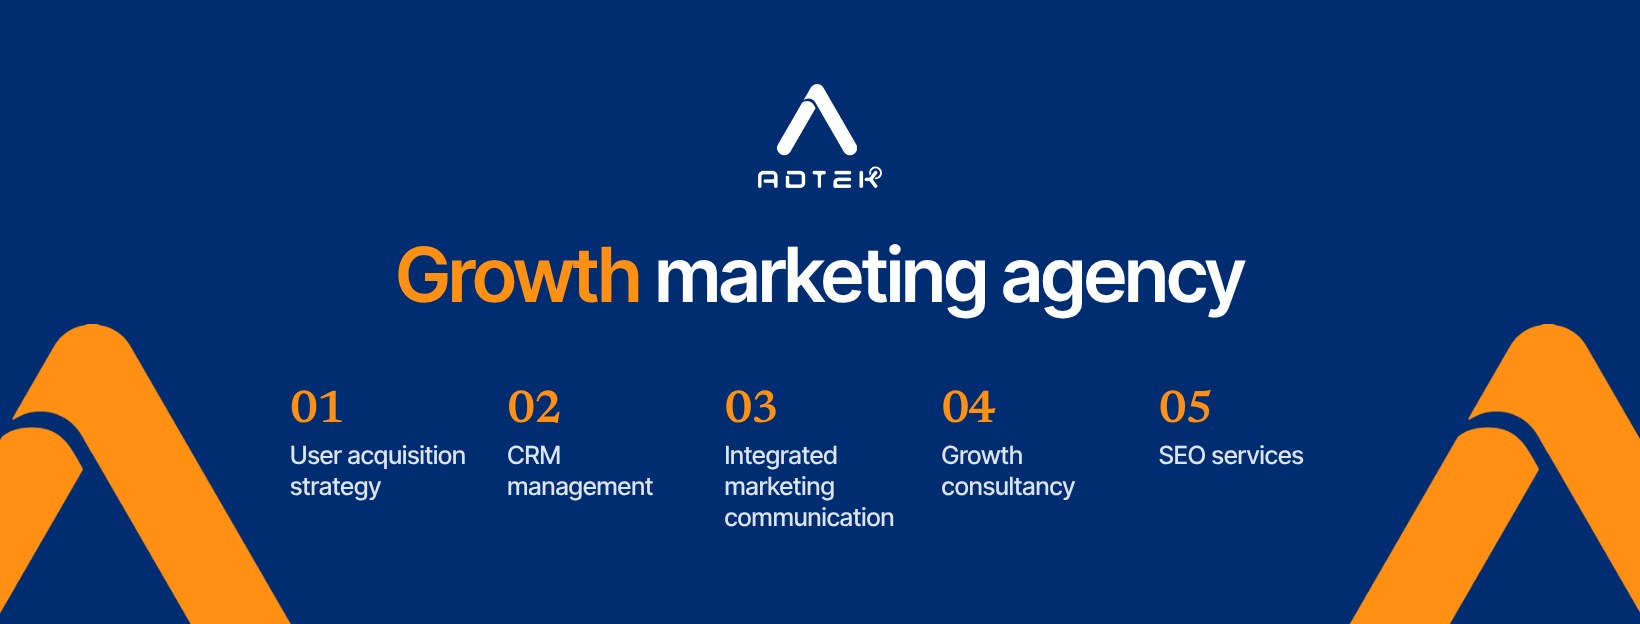
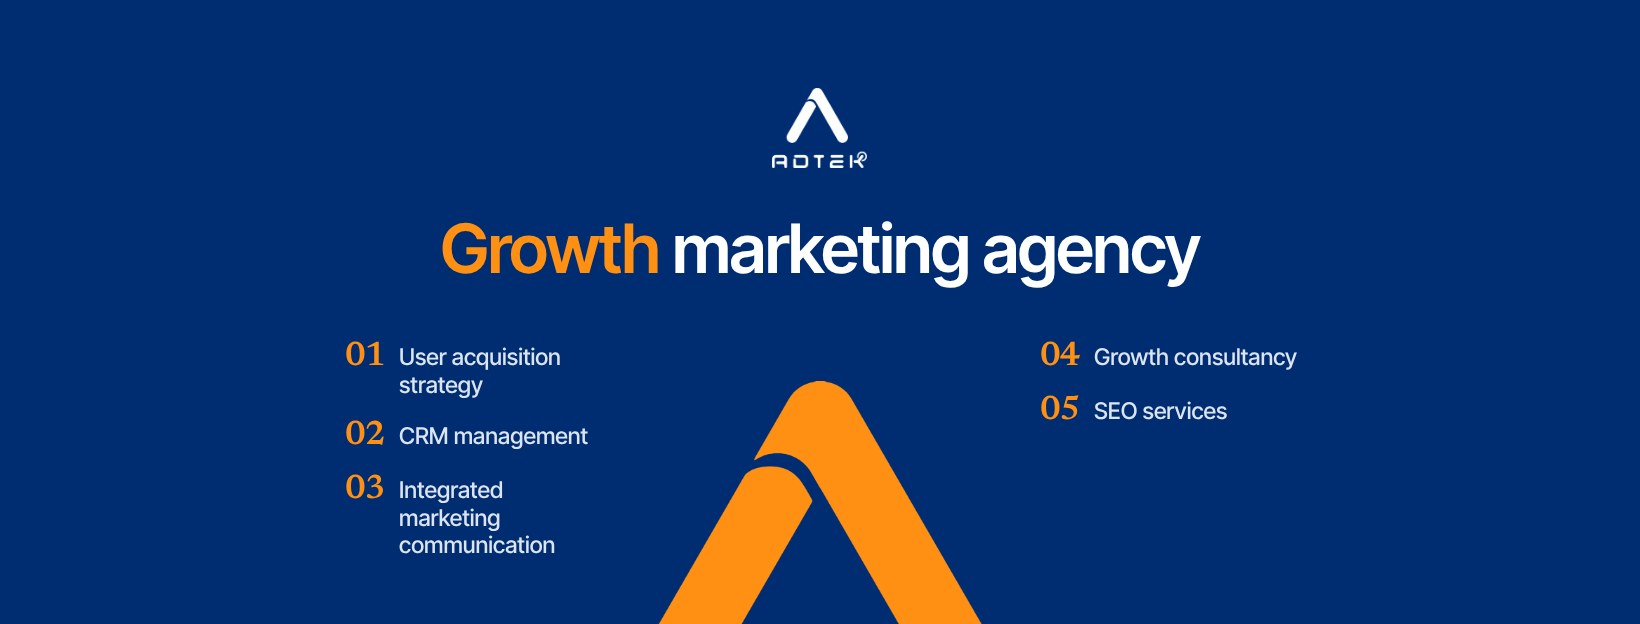
Facebook page cover: layout for the mobile app (two service columns around the profile picture), mobile mock preview
Claude-Session: https://claude.ai/code/session_01Wp8F7EosGPrY7v6XwBpRSM

diff --git a/tools/covers.py b/tools/covers.py
@@ -14,7 +14,7 @@ Cách dùng:
   python3 tools/covers.py render <số bài> [--style X] [--kind blog|fb|all] [--out thư-mục]   dựng thử, không ghi cover.style
   python3 tools/covers.py sheet <số bài> [--out thư-mục]   dựng mọi phong cách cho một bài để so sánh
   python3 tools/covers.py existing <wp_id>           dựng ảnh bìa blog cho bài cũ trong mục existing (vd 6076, 6078)
-  python3 tools/covers.py fbcover [center|split|cream] [--out thư-mục]   ảnh bìa Fanpage Facebook 1640x624 (content/brand/fb-cover.jpg)
+  python3 tools/covers.py fbcover [columns|minimal|center|split|cream] [--out thư-mục]   ảnh bìa Fanpage Facebook 1640x624 (content/brand/fb-cover.jpg)
   python3 tools/covers.py og [navy|cream|panel] [--out thư-mục]   ảnh chia sẻ mặc định của website (content/brand/og-default.jpg và @2x)
 """
 import base64
@@ -551,19 +551,42 @@ def og_render(variant="navy", out=None):
 # ---------------------------------------------------------------- ảnh bìa Fanpage Facebook
 
 FB_COVER_SIZE = (1640, 624)  # khổ tải lên Facebook khuyến nghị (hiển thị 820x312 trên máy tính)
-# Điện thoại hiển thị 640x360: cắt hai bên, chỉ giữ khoảng 68% chiều ngang ở giữa (x 265 đến 1375);
-# máy tính: ảnh đại diện Page đè góc dưới bên trái. Chữ và logo nằm trong x 300 đến 1340, chỉ dấu A cam (không chữ) tràn ra ngoài.
+# Ứng dụng Facebook trên điện thoại (đo từ ảnh chụp anh Tin gửi 16/10/2026): chỉ thấy x 315 đến 1325; thanh trạng thái che y < 80;
+# nút menu, sửa, tìm kiếm ở hai góc trên (y 155 đến 210); ảnh đại diện Page là hình tròn tâm (818, 573) bán kính khoảng 200
+# che giữa phía dưới (chủ Page còn thấy bong bóng "Share a note" ở x 670 đến 965, y 305 đến 400); khung trắng che y > 595.
+# Máy tính: ảnh đại diện đè góc dưới bên trái. Mẫu "columns": logo, tiêu đề giữa phía trên; dịch vụ hai cột hai bên hình tròn.
 SERVICES = ["User acquisition strategy", "CRM management", "Integrated marketing communication", "Growth consultancy", "SEO services"]
-FB_COVER_VARIANTS = ("center", "split", "cream")  # center: anh Tin chọn 16/10/2026
+FB_COVER_VARIANTS = ("columns", "minimal", "center", "split", "cream")  # anh Tin chọn bố cục giữa, chỉnh lại thành columns cho điện thoại
+FB_MOBILE = {"view": (315, 1325), "top": 80, "icons": [(330, 155, 400, 210), (1020, 155, 1290, 210)],
+             "circle": (818, 573, 200), "note": (670, 305, 965, 400), "bottom": 595}
 
 
-def fb_cover(variant="center"):
-    """split: nền navy, tiêu đề bên trái, 5 dịch vụ đánh số bên phải, dấu A cam tràn mép phải.
+def fb_cover(variant="columns"):
+    """columns: nền navy, logo và tiêu đề giữa phía trên, dịch vụ 01 đến 03 cột trái, 04 đến 05 cột phải, dấu A cam giữa phía dưới
+    (trên điện thoại nằm sau ảnh đại diện Page). minimal: như columns nhưng bỏ danh sách dịch vụ, tiêu đề lớn hơn.
+    split: nền navy, tiêu đề bên trái, 5 dịch vụ đánh số bên phải, dấu A cam tràn mép phải.
     center: nền navy, bố cục giữa như ảnh bìa cũ, 5 dịch vụ thành hàng (số trên, chữ dưới), dấu A cam ở hai góc dưới.
     cream: nền kem, tiêu đề navy bên trái, dịch vụ trên khối navy tràn mép phải, dấu A cam ở mép phải."""
     items = "".join(f'<li><span class="num">{i:02d}</span><span class="t">{esc(t)}</span></li>' for i, t in enumerate(SERVICES, 1))
     head = hl("*Growth* marketing agency")
-    if variant == "center":
+    if variant in ("columns", "minimal"):
+        li = lambda i, t: f'<li><span class="num">{i:02d}</span><span class="t">{esc(t)}</span></li>'  # noqa: E731
+        left = "".join(li(i, t) for i, t in enumerate(SERVICES[:3], 1))
+        right = "".join(li(i, t) for i, t in enumerate(SERVICES[3:], 4))
+        mini = variant == "minimal"
+        css = f"""
+body{{background:{NAVY};color:#fff}}
+.big{{position:absolute;aspect-ratio:285/253;background:{ORANGE};width:{460 if mini else 400}px;left:50%;transform:translateX(-50%);bottom:{-162 if mini else -112}px}}
+.lg{{position:absolute;left:0;right:0;top:{96 if mini else 88}px;display:flex;justify-content:center}}
+h1{{position:absolute;left:330px;right:330px;top:{230 if mini else 214}px;text-align:center;font-size:{74 if mini else 68}px;line-height:1}}
+ul{{position:absolute;top:340px;width:262px;list-style:none;display:flex;flex-direction:column;gap:20px}}
+ul.l{{left:345px}}ul.r{{left:1040px}}
+li{{display:flex;align-items:baseline;gap:12px}}
+.num{{font-size:34px;line-height:1;color:{ORANGE};width:42px;flex:none}}
+.t{{font-size:23px;line-height:1.2;font-weight:500;color:#DCE4F2}}"""
+        lists = "" if mini else f'<ul class="l">{left}</ul><ul class="r">{right}</ul>'
+        body = f"""<div class="big mark"></div><div class="lg">{logo('#fff', 80)}</div><h1>{head}</h1>{lists}"""
+    elif variant == "center":
         css = f"""
 body{{background:{NAVY};color:#fff}}
 .big{{position:absolute;aspect-ratio:285/253;background:{ORANGE};height:430px}}
@@ -594,7 +617,7 @@ li{{display:flex;align-items:baseline;gap:18px}}
     return document(css, body, *FB_COVER_SIZE)
 
 
-def fb_cover_render(variant="center", out=None):
+def fb_cover_render(variant="columns", out=None):
     """Ghi content/brand/fb-cover.jpg (1640x624); out: thư mục khác để xem thử."""
     d = Path(out) if out else ROOT / "content/brand"
     return shoot([(fb_cover(variant), d / ("fb-cover.jpg" if not out else f"fb-cover-{variant}.jpg"), *FB_COVER_SIZE, 1)])
@@ -629,8 +652,8 @@ if __name__ == "__main__":
     elif cmd == "og":  # ảnh chia sẻ mặc định của website: og [navy|cream|panel] [--out thư-mục để xem thử]
         v = args[1] if len(args) > 1 and not args[1].startswith("--") else "navy"
         print("\n".join(og_render(v, opt("--out"))))
-    elif cmd == "fbcover":  # ảnh bìa Fanpage: fbcover [center|split|cream] [--out thư-mục để xem thử]
-        v = args[1] if len(args) > 1 and not args[1].startswith("--") else "center"
+    elif cmd == "fbcover":  # ảnh bìa Fanpage: fbcover [columns|minimal|center|split|cream] [--out thư-mục để xem thử]
+        v = args[1] if len(args) > 1 and not args[1].startswith("--") else "columns"
         print("\n".join(fb_cover_render(v, opt("--out"))))
     elif cmd == "sheet":
         post = find(data, int(args[1]))

diff --git a/logs/changelog.md b/logs/changelog.md
@@ -142,3 +142,4 @@
 | 2026-10-16 17:49 | Dựng lại ảnh bìa Fanpage Facebook theo mẫu cũ (logo, Growth marketing agency, 5 dịch vụ), thiết kế phẳng navy, cam, kem: 1640x624, chữ trong vùng x 300 đến 1340 (điện thoại cắt hai bên); 3 phương án trong previews/fb-cover-options.jpg (khung đỏ là phần hiện trên điện thoại), anh Tin chọn phương án bố cục giữa; thêm lệnh `covers.py fbcover` | content/brand/fb-cover.jpg, tools/covers.py | Anh Tin chọn phương án bố cục giữa (chữ dịch vụ tăng lên 25px), chưa tải lên Facebook |
 | 2026-10-17 | Thêm content/editorial/van-phong.md: quy tắc văn phong rút từ bài mẫu "Cách bán hàng trên Shopee" của anh Tin (ngôi tôi/bạn, mở bài vào thẳng việc, khái niệm kèm tiếng Anh và phép tính, so sánh đời thường, ví dụ làm từng bước, công thức kèm "Không nên", tránh từ ngữ kiểu AI). README trỏ tới file này nên lịch viết thứ Sáu tự áp dụng | content/editorial | Đã áp dụng |
 | 2026-10-17 01:30 | Kiểm tra index 142 URL trong sitemap qua URL Inspection API (tools/gsc.py audit, kết quả reports/gsc-index-audit-20261017.json): 18 đã index, 8 đã thu thập nhưng chưa index, 74 đã phát hiện nhưng chưa thu thập, 41 Google chưa biết, 1 chọn bản chính tắc khác (/en/press/ trỏ về /bao-chi/). Chỉ 27/142 URL từng được Googlebot thu thập (từ 25/4 đến 16/10/2026). Thuật ngữ: 1/67 đã index. Thời gian phản hồi khi trang chưa có đệm 2.5 đến 4.8 giây, có đệm 0.35 giây; tường lửa không chặn Googlebot. Rút kinh nghiệm: tránh xóa toàn bộ cache (purge) khi đổi cấu hình, chỉ xóa trang vừa sửa | Search Console, toàn site | Đã kiểm tra |
+| 2026-10-16 18:04 | Sửa ảnh bìa Fanpage cho ứng dụng Facebook trên điện thoại (đo từ ảnh chụp anh Tin: chỉ thấy x 315 đến 1325, ảnh đại diện Page che giữa phía dưới, nút ở hai góc trên): logo và tiêu đề giữa phía trên, 5 dịch vụ chia hai cột hai bên ảnh đại diện, dấu A cam nằm sau ảnh đại diện; thêm phương án gọn không danh sách dịch vụ; ảnh giả lập điện thoại previews/fb-cover-mobile.jpg | content/brand/fb-cover.jpg, tools/covers.py | Chờ anh Tin thay lại trên Facebook |
